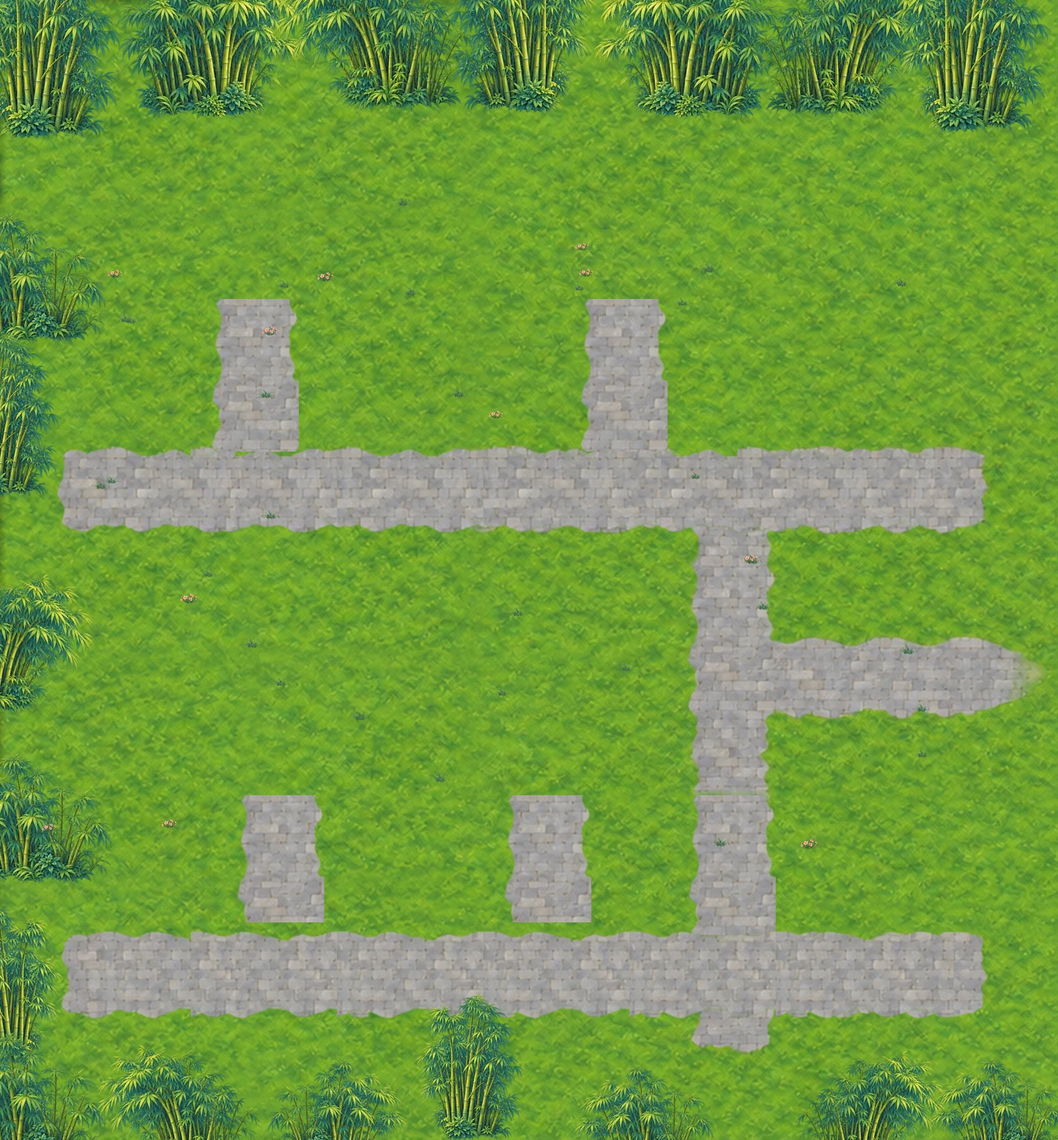
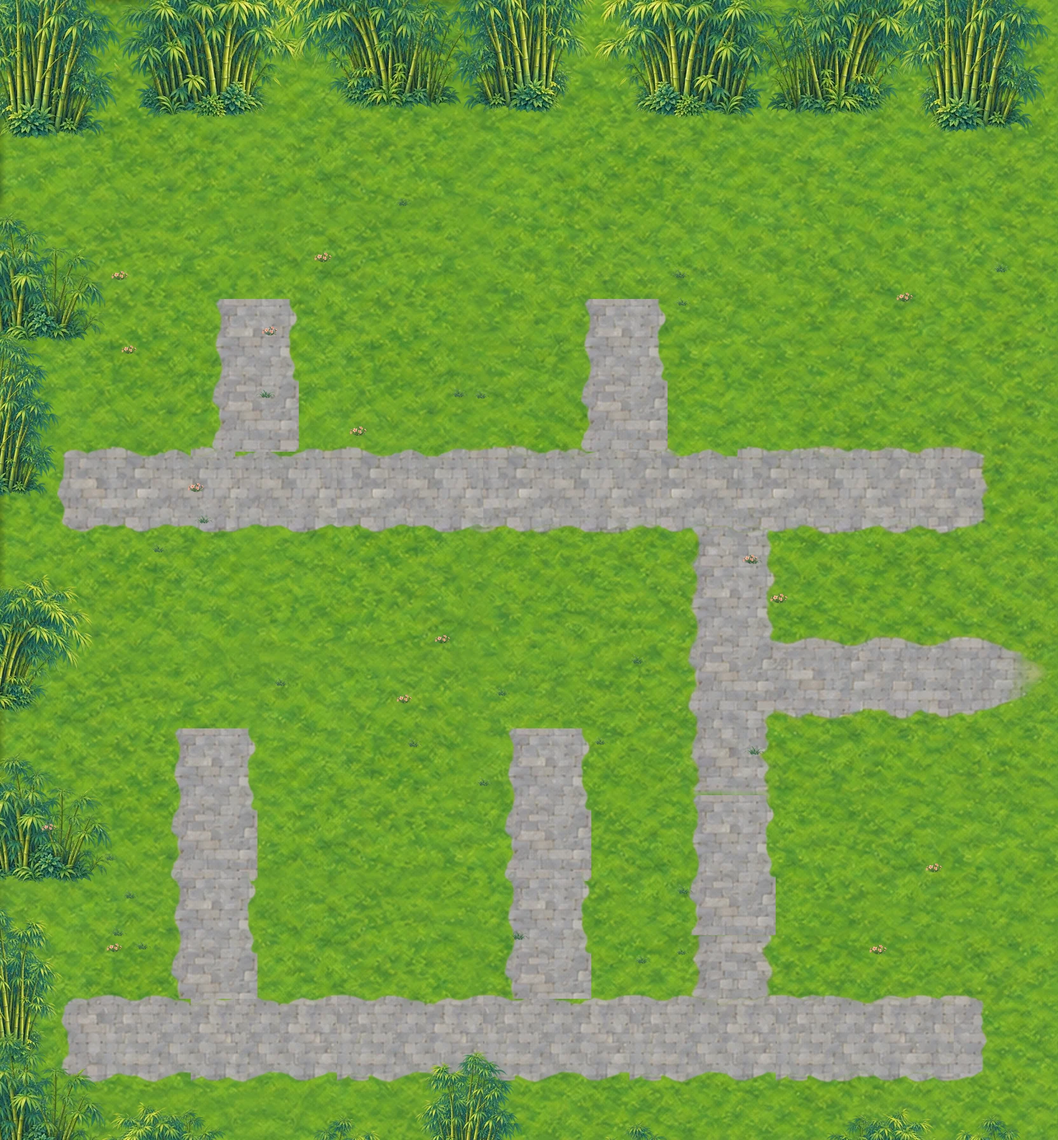
合并另一窗口：青竹西院 R136 室内（无缝墙、开合窗、多帧动画、图集）
Claude-Session: https://claude.ai/code/session_01MLmwgsq8MPeyfrtaz8BRE2

Changed region(s): [[0.0312, 0.625, 1.0, 1.0], [0.2812, 0.2188, 0.3125, 0.25], [0.0938, 0.2188, 0.125, 0.25]]

diff --git a/game/r136_west.js b/game/r136_west.js
@@ -1,103 +1,149 @@
-// ================= R136 · 青竹小院往西扩建（下人院）=================
-// 作者 11-07：「既然扩建了就好好扩建」→ 不是另一张图，青竹小院本身往西扩 1664px，一张图走过去。
-//   做法：小院原有坐标一个都不动（剧情、天鹏、练剑、钓鱼、宝箱都照旧），扩出来的那块落在 x < 0（-1664 ~ 0）；
-//   引擎里碰撞表 / 寻路 / 镜头 / 夜色支持「地图左边界为负」（T.x0 / T.c0），见 walkable、findPath、standMap 等处的 R136 注释。
-//   后排青禾、小桃各一间（往后靠，门前各一块花圃 + 小石板路），前排厨房和阿福一间并列，右边两块花圃；
-//   前院水井、柴垛、水缸、晾衣架、石桌竹椅、晒药架。小院西边竹丛留一个口子接过去。
-// 素材先用现成的拼（E2 客舍、苍月城房子顶厨房、R112 水井 / 柴垛 / 晾衣架、E2 花圃）；四间室内也是先拼的，等 Codex R136（无缝墙 + 开合窗 + 多帧）到了再换。
+// ================= R136 · 青竹小院往西扩建（下人院）+ 四间室内（Codex R136 墙窗 / 家具 / 多帧动画）=================
+// 作者 11-07：「既然扩建了就好好扩建」→ 青竹小院本身往西扩 1664px，一张图走过去。
+//   小院原有坐标一个都不动（剧情、天鹏、练剑、钓鱼、宝箱照旧），扩出来的那块落在 x < 0（-1664 ~ 0）；
+//   引擎里碰撞表 / 寻路 / 镜头 / 夜色 / 小地图支持「地图左边界为负」（T.x0 / T.c0，见各处 R136 注释）。
+// 西院：后排青禾、小桃（门前花圃 + 小石板路），前排厨房（Codex 厨房外观：烟囱炊烟、门帘、门灯多帧）和阿福并列（往后靠，前院更宽），
+//   前院 Codex 水井（打水多帧）、晾衣（被风吹）、石桌竹椅；右边两块随风摆的花圃；石灯都换成火光闪动的多帧。
+// 室内：Codex R136 整块无缝北墙（昼 / 夜），窗户白天开、夜里关，走到窗前点一下可以开关（8 帧开合）；
+//   开着窗时有窗格光斑、光束、竹影、浮尘；灶火、锅里蒸汽、蒸笼热气、风铃、窗帘、夜里壁灯都是多帧。夜里地板家具换压暗版。
 window.R136W_ON = true;
 (function () {
   if (typeof TMAPS === 'undefined' || !TMAPS.qingzhu_court || typeof buildTileMap !== 'function') return;
   const D = 'r136w/', COURT = 'qingzhu_court', OX = 1664, CS0 = 8;
   const P = (x, y) => [x / 64 - .5, y / 64 - .8];
-  const DATA = {"W":1664,"H":1792,"cs":8,"cols":208,"rows":224,"b":["1",8537,18,46,27,45,55,17,18,46,27,45,55,17,18,46,27,45,55,17,18,46,27,45,55,17,18,46,27,45,55,17,18,46,27,45,55,17,18,46,27,45,55,17,18,46,27,45,55,17,18,46,27,45,55,17,18,46,27,45,55,17,18,46,27,45,55,17,18,46,27,45,55,17,18,46,27,45,12,16,27,17,18,46,27,45,12,16,27,17,8,6,4,46,27,45,12,16,3,6,18,17,8,6,4,46,8,6,13,45,31,6,18,17,8,6,58,6,89,6,18,17,8,6,58,6,89,6,18,17,8,6,153,6,18,17,191,17,191,17,191,17,191,17,191,17,191,17,191,17,172,15,4,17,172,15,4,17,172,15,4,17,191,17,191,17,191,17,52,38,35,38,28,17,52,38,35,38,28,17,52,38,35,38,28,17,52,38,35,38,28,17,52,38,35,38,28,17,52,38,35,38,28,17,52,38,35,38,28,17,52,38,35,38,28,17,52,38,35,38,28,17,52,38,35,38,14,31,177,31,177,31,177,31,177,31,177,31,191,17,191,17,191,17,191,17,191,17,191,17,191,17,191,17,191,17,191,17,191,17,191,17,191,17,191,17,191,17,191,17,191,17,191,17,191,17,191,17,191,17,191,17,191,17,191,17,191,17,191,17,191,17,191,17,191,17,10,52,11,51,24,38,5,17,10,52,11,51,24,38,5,17,10,52,11,51,19,43,5,17,10,52,11,51,19,43,5,17,10,52,11,51,19,43,5,17,10,52,11,51,19,43,5,17,10,52,11,51,19,43,5,17,10,52,11,51,24,38,13,9,10,52,11,51,24,38,13,9,10,52,11,51,75,9,10,52,11,51,75,9,10,52,11,51,75,9,10,52,11,51,75,9,10,52,11,51,75,9,10,52,11,51,75,9,10,52,11,51,75,9,10,52,11,51,75,9,10,52,11,51,75,9,10,52,11,51,75,9,10,52,11,51,59,6,10,9,10,52,11,51,59,6,10,9,10,52,11,51,59,6,10,9,10,52,11,51,59,6,10,9,10,52,11,51,59,6,2,17,10,52,11,51,67,17,10,52,11,51,67,17,10,52,11,51,67,17,10,52,11,51,67,17,10,52,11,51,67,17,10,52,11,51,67,17,10,52,11,51,67,17,10,52,11,51,67,17,10,52,11,51,67,17,10,52,11,51,67,17,10,58,5,51,24,38,5,17,10,58,5,51,24,38,5,23,4,60,3,51,24,38,5,23,4,60,3,51,24,38,5,23,47,17,78,38,5,23,58,6,78,38,5,23,58,6,78,38,5,17,148,38,5,17,148,38,5,17,148,38,5,17,191,17,191,17,191,17,191,17,191,17,191,17,191,17,191,17,191,17,191,17,1,22,168,17,1,22,4,17,147,17,1,22,4,17,10,16,45,12,64,17,1,22,4,17,10,16,3,7,27,6,2,12,1,6,57,17,1,22,4,17,10,16,3,7,27,6,2,12,1,6,57,17,1,22,4,17,10,16,3,7,27,6,2,12,1,6,57,17,1,22,168,17,191,17,191,17,191,17,191,17,191,17,191,17,191,17,191,17,191,17,191,17,191,17,191,17,191,17,191,17,191,17,191,17,191,17,191,17,191,17,191,17,191,17,191,17,191,17,191,17,191,17,191,17,191,17,191,3752],"objs":[["h_qinghe","house_day",180,190,440,280,470],["h_xiaotao","house_day",760,190,440,280,470],["kitchen","kitchen",130,860,440,395,1255],["h_afu","house_day",640,975,440,280,1255],["garden_1","fl_narcissus",475,486,336,184,662],["garden_2","fl_peony",1055,486,336,184,662],["garden_3","fl_lily",1238,835,336,184,1011],["garden_4","fl_iris",1238,1110,336,184,1286],["rack","rack",75,1257,190,168,1425],["well","well",282,1295,146,123,1418],["firewood","firewood",500,1329,135,83,1412],["jar_w","jar",650,1343,64,72,1415],["chair_l","bamboo_chair",925,1342,60,76,1418],["tea_s","stone_table",985,1331,112,81,1412],["chair_r","bamboo_chair2",1090,1342,60,76,1418],["sacks","sacks",490,1130,133,120,1250],["cart","cart",255,1586,156,114,1700],["herb1","herb",1250,1627,136,73,1700],["wine","wine",1480,581,132,119,700],["jar_g","jar",640,398,64,72,470],["herb2","herb",1250,377,136,73,450],["herb3","herb",1440,487,136,73,560],["lamp_0","lamp",130,361,60,119,480],["lamp_1","lamp",1400,361,60,119,480],["lamp_2","lamp",575,1143,60,119,1262],["lamp_3","lamp",65,1143,60,119,1262],["lamp_4","lamp",1210,871,60,119,990],["lamp_5","lamp",1530,1011,60,119,1130]],"doors":[{"id":"qinghe","to":"qingzhu_room_qinghe","x":400,"y":490,"label":"青禾的房间"},{"id":"xiaotao","to":"qingzhu_room_xiaotao","x":980,"y":490,"label":"小桃的房间"},{"id":"afu","to":"qingzhu_room_afu","x":860,"y":1275,"label":"阿福的房间"},{"id":"kitchen","to":"qingzhu_kitchen","x":440,"y":1275,"label":"厨房"}],"rooms":{"room_afu":["1",3852,96,8,76,12,8,8,76,12,8,8,76,12,8,8,76,12,8,8,76,12,8,8,76,12,8,8,76,12,8,8,76,12,8,8,96,8,3,36,57,8,3,36,57,8,3,36,57,8,3,36,57,8,3,36,57,8,3,36,57,8,3,36,57,8,96,8,96,8,96,8,96,8,96,8,96,8,57,18,21,8,57,18,21,8,57,18,21,8,57,18,21,8,57,18,21,8,96,8,96,8,96,8,96,8,96,8,96,8,96,8,96,8,4,16,44,9,23,8,4,16,44,9,23,8,4,16,44,9,23,8,4,16,44,9,23,8,4,16,44,9,12,6,5,8,4,16,65,6,5,8,4,16,65,6,5,8,96,8,96,8,96,8,96,8,96,8,96,8,96,8,96,8,96,8,96,8,96,8,96,8,96,50,12,92,12,92,12,46],"room_qinghe":["1",3852,96,8,78,13,5,8,78,13,5,8,78,13,5,8,78,13,5,8,78,13,5,8,78,13,5,8,78,13,5,8,96,8,3,36,57,8,3,36,57,8,3,36,57,8,3,36,57,8,3,57,36,8,3,57,36,8,3,57,36,8,37,23,36,8,37,23,36,8,37,23,36,8,37,23,36,8,37,23,36,8,96,8,54,18,24,8,54,18,24,8,54,18,24,8,54,18,24,8,96,8,96,8,96,8,96,8,96,8,96,8,96,8,61,8,27,8,61,8,27,8,61,8,27,8,61,8,27,8,61,8,27,8,61,8,27,8,96,8,1,7,88,8,1,7,79,6,3,8,1,7,79,6,3,8,1,7,79,6,3,8,1,7,79,6,3,8,1,7,88,8,96,8,96,8,96,8,96,8,96,8,96,8,96,8,96,8,96,8,96,50,12,92,12,92,12,46],"room_xiaotao":["1",3852,96,8,7,12,77,8,7,12,77,8,7,12,77,8,7,12,77,8,7,12,77,8,7,12,77,8,7,12,77,8,96,8,57,36,3,8,57,36,3,8,57,36,3,8,57,36,3,8,57,36,3,8,57,36,3,8,57,36,3,8,96,8,96,8,96,8,96,8,96,8,96,8,96,8,96,8,9,18,69,8,9,18,69,8,9,18,69,8,9,18,69,8,9,18,69,8,96,8,96,8,96,8,96,8,96,8,96,8,96,8,14,9,73,8,14,9,73,8,14,9,73,8,14,9,73,8,14,9,66,15,89,15,3,6,80,15,3,6,80,15,3,6,80,15,3,6,80,15,96,8,96,8,96,8,96,8,96,8,96,8,96,8,96,8,96,8,96,50,12,92,12,92,12,46],"kitchen_in":["1",3852,71,33,71,33,71,33,3,26,42,33,3,26,42,33,3,26,12,25,5,33,3,26,12,25,5,33,3,26,12,25,5,33,3,26,4,33,5,33,3,26,4,33,5,33,33,12,26,33,71,33,96,8,96,8,96,8,96,8,96,8,96,8,96,8,19,8,69,8,19,8,69,8,19,8,69,8,96,8,96,8,96,8,96,8,96,8,37,27,32,8,37,27,32,8,37,27,32,8,37,27,32,8,37,27,32,8,37,27,32,8,37,27,32,8,96,8,96,8,96,8,96,8,3,19,74,8,3,19,74,8,3,19,74,8,3,19,60,11,3,8,3,19,60,11,3,8,82,11,3,8,82,11,3,8,82,11,3,8,96,8,96,8,96,8,96,8,96,8,96,8,96,8,96,8,96,8,96,50,12,92,12,92,12,46]}};
+  const DATA = {"W":1664,"H":1792,"cs":8,"cols":208,"rows":224,"b":["1",8537,18,46,27,45,55,17,18,46,27,45,55,17,18,46,27,45,55,17,18,46,27,45,55,17,18,46,27,45,55,17,18,46,27,45,55,17,18,46,27,45,55,17,18,46,27,45,55,17,18,46,27,45,55,17,18,46,27,45,55,17,18,46,27,45,55,17,18,46,27,45,55,17,18,46,27,45,12,16,27,17,18,46,27,45,12,16,27,17,18,46,27,45,12,16,27,17,18,46,8,6,13,45,55,17,72,6,113,17,9,4,59,6,90,4,19,17,9,4,155,4,19,17,191,17,191,17,191,17,191,17,191,17,191,17,191,17,172,15,4,17,172,15,4,17,172,15,4,17,191,17,191,17,191,17,52,38,35,38,28,17,52,38,35,38,28,17,52,38,35,38,28,17,52,38,35,38,28,17,52,38,35,38,28,17,52,38,35,38,28,17,52,38,35,38,28,17,52,38,35,38,28,17,52,38,35,38,28,17,52,38,35,38,14,31,177,31,177,31,177,31,177,31,177,31,191,17,191,17,191,17,191,17,191,17,191,17,191,17,191,17,191,17,191,17,191,17,191,17,191,17,191,17,191,17,191,17,191,17,191,17,191,17,5,55,13,51,67,17,5,55,13,51,67,17,5,55,13,51,67,17,5,55,13,51,67,17,5,55,13,51,67,17,5,55,13,51,67,17,5,55,13,51,67,17,5,55,13,51,67,17,5,55,13,51,67,17,5,55,13,51,67,17,5,55,13,51,67,17,5,55,13,51,23,39,5,17,5,55,13,51,23,39,5,17,5,55,13,51,23,39,5,17,5,55,13,51,23,39,5,17,5,55,13,51,16,4,3,39,5,17,5,55,13,51,16,4,47,17,5,55,13,51,75,9,5,55,13,51,75,9,5,55,13,51,75,9,5,55,13,51,75,9,5,55,13,51,75,9,5,55,13,51,75,9,5,55,13,51,75,9,5,55,13,51,75,9,5,55,13,51,75,9,5,55,13,51,75,9,5,55,13,51,75,9,5,55,13,51,75,9,5,55,13,51,75,9,5,55,13,51,75,9,5,55,13,51,75,9,5,55,13,51,60,4,11,9,5,55,13,51,60,4,3,17,5,55,13,51,67,17,6,53,132,17,65,4,122,17,65,4,122,17,191,17,191,17,191,17,191,17,191,17,191,17,191,17,147,39,5,17,147,39,5,17,147,39,5,17,147,39,5,17,147,39,5,17,191,17,191,17,191,17,191,17,191,17,191,17,191,17,191,17,191,17,191,17,191,17,191,17,191,17,191,17,191,17,3,22,166,17,3,22,90,12,64,17,3,22,82,6,2,12,1,6,57,17,3,22,82,6,2,12,1,6,57,17,3,22,18,36,28,6,2,12,1,6,57,17,3,22,18,36,112,17,3,22,18,36,112,17,191,17,191,17,191,17,191,17,191,17,147,15,8,19,2,17,147,15,8,19,2,17,147,15,8,19,2,17,147,15,8,19,2,17,170,19,2,17,191,17,191,17,191,17,191,17,191,17,191,17,191,17,191,17,191,17,191,17,191,17,191,17,191,17,191,17,191,17,191,17,191,17,191,17,191,17,191,17,191,17,191,17,191,17,191,17,191,17,191,17,191,17,191,17,191,1256],"objs":[["h_qinghe","house_day",180,190,440,280,470],["h_xiaotao","house_day",760,190,440,280,470],["kitchen","c_kitchen_exterior_day",95,850,480,300,1150,{"ni":"c_kitchen_exterior_night"}],["k_smoke","c_chimney_smoke_day",393,657,144,224,1151,{"an":"chimney_smoke_day","op":0.7,"nop":0.55,"ph":2,"nan":"chimney_smoke_night"}],["k_curtain","c_door_curtain",264,994,142,148,1152,{"an":"door_curtain","op":0.95}],["k_lan1","c_lantern_flicker",220,965,48,80,1153,{"an":"lantern_flicker"}],["k_lan2","c_lantern_flicker",402,965,48,80,1153,{"an":"lantern_flicker","ph":3}],["h_afu","house_day",640,870,440,280,1150],["garden_1","fl_narcissus",475,486,336,184,662],["garden_2","fl_peony",1055,486,336,184,662],["garden_3","c_flower_wind",1238,795,336,224,981,{"an":"flower_wind"}],["garden_4","c_flower_wind",1238,1070,336,224,1256,{"an":"flower_wind","ph":4}],["well","c_well_draw_water",60,1208,240,240,1432,{"an":"well_draw_water"}],["laundry","c_laundry_wind",400,1208,320,240,1430,{"an":"laundry_wind"}],["chair_l","bamboo_chair",925,1342,60,76,1418],["tea_s","stone_table",985,1331,112,81,1412],["chair_r","bamboo_chair2",1090,1342,60,76,1418],["cart","cart",1430,1396,156,114,1510],["herb1","herb",1240,1427,136,73,1500],["wine","wine",1480,581,132,119,700],["jar_g","jar",640,398,64,72,470],["herb2","herb",1250,377,136,73,450],["herb3","herb",1440,487,136,73,560],["lamp_0","c_stone_lamp_flicker",123,362,75,120,480,{"an":"stone_lamp_flicker","ph":0}],["lamp_1","c_stone_lamp_flicker",1393,362,75,120,480,{"an":"stone_lamp_flicker","ph":2}],["lamp_2","c_stone_lamp_flicker",571,1039,75,120,1157,{"an":"stone_lamp_flicker","ph":4}],["lamp_3","c_stone_lamp_flicker",1173,872,75,120,990,{"an":"stone_lamp_flicker","ph":6}],["lamp_4","c_stone_lamp_flicker",1523,1012,75,120,1130,{"an":"stone_lamp_flicker","ph":8}]],"doors":[{"id":"qinghe","to":"qingzhu_room_qinghe","x":400,"y":490,"label":"青禾的房间"},{"id":"xiaotao","to":"qingzhu_room_xiaotao","x":980,"y":490,"label":"小桃的房间"},{"id":"afu","to":"qingzhu_room_afu","x":860,"y":1170,"label":"阿福的房间"},{"id":"kitchen","to":"qingzhu_kitchen","x":335,"y":1170,"label":"厨房"}],"rooms":{"qinghe":{"floor":"floor_wood","objs":[{"id":"north_wall","x":0,"y":0,"w":832,"h":262,"z":10,"img":"wall_residential_day","ni":"wall_residential_night"},{"id":"window","x":92,"y":22,"w":280,"h":176,"z":12,"an":"window_open","fw":280,"fh":176,"n":8,"fps":10,"loop":false,"op":1,"ph":0,"sf":7,"ni":"window_closed_night","win":[232,290]},{"id":"bamboo_outside_window","x":148,"y":66,"w":168,"h":112,"z":13,"an":"bamboo_shadow","fw":256,"fh":256,"n":8,"fps":4,"loop":true,"op":0.22,"ph":0,"day":1,"clip":[135,60,194,105]},{"id":"window_curtains","x":82,"y":18,"w":300,"h":192,"z":16,"an":"window_curtain","fw":300,"fh":192,"n":8,"fps":5,"loop":true,"op":0.95,"ph":0,"day":1},{"id":"qinghe_plant","x":197,"y":140,"w":48,"h":65,"z":19,"img":"qinghe_plant","amb":1},{"id":"sun_patch","x":162,"y":255,"w":360,"h":260,"z":20,"img":"window_light_patch","op":0.3,"day":1,"mo":[3,1,8]},{"id":"bamboo_floor","x":187,"y":280,"w":256,"h":256,"z":21,"an":"bamboo_shadow","fw":256,"fh":256,"n":8,"fps":4,"loop":true,"op":0.25,"ph":0,"day":1},{"id":"warm_lantern","x":685,"y":64,"w":76,"h":128,"z":30,"an":"lantern_flicker","fw":76,"fh":128,"n":8,"fps":8,"loop":true,"op":1,"ph":0,"night":1},{"id":"qinghe_shelf","x":650,"y":248,"w":115,"h":136,"z":384,"img":"qinghe_shelf","amb":1,"col":[654,335,107,45]},{"id":"qinghe_bed","x":55,"y":310,"w":280,"h":122,"z":432,"img":"qinghe_bed","amb":1,"col":[59,388,272,40]},{"id":"qinghe_desk","x":500,"y":448,"w":188,"h":97,"z":545,"img":"qinghe_desk","amb":1,"col":[504,510,180,32]},{"id":"qinghe_sewing_basket","x":515,"y":431,"w":55,"h":46,"z":546,"img":"qinghe_sewing_basket","amb":1},{"id":"qinghe_embroidery_hoop","x":571,"y":432,"w":48,"h":46,"z":547,"img":"qinghe_embroidery_hoop","amb":1},{"id":"qinghe_books","x":629,"y":445,"w":45,"h":27,"z":548,"img":"qinghe_books","amb":1},{"id":"qinghe_stool","x":564,"y":557,"w":56,"h":52,"z":609,"img":"qinghe_stool","amb":1,"col":[568,590,48,17]},{"id":"qinghe_chest","x":70,"y":531,"w":126,"h":79,"z":610,"img":"qinghe_chest","amb":1,"col":[74,582,118,26]},{"id":"sun_beam","x":187,"y":120,"w":384,"h":384,"z":950,"img":"window_light_beam","op":0.1,"day":1,"mo":[1,1,10]},{"id":"dust_in_light","x":235,"y":240,"w":192,"h":192,"z":960,"an":"dust_motes","fw":192,"fh":192,"n":8,"fps":4,"loop":true,"op":0.16,"ph":0,"day":1}],"b":["1",3850,100,4,100,4,100,4,100,4,79,15,6,4,79,15,6,4,79,15,6,4,79,15,6,4,79,15,6,4,79,15,6,4,79,15,6,4,5,35,60,4,5,35,60,4,5,35,60,4,5,35,60,4,5,35,60,4,5,35,60,4,100,4,100,4,100,4,100,4,100,4,100,4,100,4,100,4,100,4,61,23,16,4,61,23,16,4,61,23,16,4,61,23,16,4,61,23,16,4,100,4,100,4,100,4,100,4,7,15,78,4,7,15,47,6,25,4,7,15,47,6,25,4,7,15,47,6,25,4,100,4,100,4,100,4,100,4,100,4,100,4,100,4,100,4,100,4,100,4,100,4,100,4,100,4,100,4,100,4,100,4,100,47,14,90,14,149],"trig":[360,734,112,34],"spawn":[416,698]},"xiaotao":{"floor":"floor_wood","objs":[{"id":"north_wall","x":0,"y":0,"w":832,"h":262,"z":10,"img":"wall_residential_day","ni":"wall_residential_night"},{"id":"window","x":92,"y":22,"w":280,"h":176,"z":12,"an":"window_open","fw":280,"fh":176,"n":8,"fps":10,"loop":false,"op":1,"ph":0,"sf":7,"ni":"window_closed_night","win":[232,290]},{"id":"bamboo_outside_window","x":148,"y":66,"w":168,"h":112,"z":13,"an":"bamboo_shadow","fw":256,"fh":256,"n":8,"fps":4,"loop":true,"op":0.22,"ph":0,"day":1,"clip":[135,60,194,105]},{"id":"xiaotao_dried_bouquet","x":549,"y":70,"w":65,"h":112,"z":18,"img":"xiaotao_dried_bouquet","amb":1},{"id":"xiaotao_daisies","x":201,"y":137,"w":50,"h":69,"z":19,"img":"xiaotao_daisies","amb":1},{"id":"window_chime","x":349,"y":64,"w":64,"h":112,"z":19,"an":"wind_chime","fw":64,"fh":112,"n":8,"fps":5,"loop":true,"op":1,"ph":0},{"id":"sun_patch","x":162,"y":255,"w":360,"h":260,"z":20,"img":"window_light_patch","op":0.3,"day":1,"mo":[3,1,8]},{"id":"bamboo_floor","x":187,"y":280,"w":256,"h":256,"z":21,"an":"bamboo_shadow","fw":256,"fh":256,"n":8,"fps":4,"loop":true,"op":0.25,"ph":0,"day":1},{"id":"warm_lantern","x":685,"y":64,"w":76,"h":128,"z":30,"an":"lantern_flicker","fw":76,"fh":128,"n":8,"fps":8,"loop":true,"op":1,"ph":0,"night":1},{"id":"xiaotao_cabinet","x":652,"y":248,"w":112,"h":128,"z":376,"img":"xiaotao_cabinet","amb":1,"col":[656,330,104,42]},{"id":"xiaotao_bed","x":55,"y":323,"w":280,"h":122,"z":445,"img":"xiaotao_bed","amb":1,"col":[59,401,272,40]},{"id":"xiaotao_tall_flowers","x":728,"y":458,"w":65,"h":110,"z":568,"img":"xiaotao_tall_flowers","amb":1,"col":[732,528,57,36]},{"id":"xiaotao_mirror_table","x":528,"y":421,"w":150,"h":155,"z":576,"img":"xiaotao_mirror_table","amb":1,"col":[532,520,142,51]},{"id":"xiaotao_flower_pot","x":80,"y":532,"w":62,"h":63,"z":595,"img":"xiaotao_flower_pot","amb":1,"col":[84,572,54,21]},{"id":"xiaotao_flower_basket","x":151,"y":584,"w":74,"h":52,"z":636,"img":"xiaotao_flower_basket","amb":1,"col":[155,617,66,17]},{"id":"xiaotao_stool","x":570,"y":592,"w":60,"h":46,"z":638,"img":"xiaotao_stool","amb":1,"col":[574,621,52,15]},{"id":"sun_beam","x":187,"y":120,"w":384,"h":384,"z":950,"img":"window_light_beam","op":0.1,"day":1,"mo":[1,1,10]},{"id":"dust_in_light","x":235,"y":240,"w":192,"h":192,"z":960,"an":"dust_motes","fw":192,"fh":192,"n":8,"fps":4,"loop":true,"op":0.16,"ph":0,"day":1}],"b":["1",3850,100,4,100,4,100,4,100,4,80,13,7,4,80,13,7,4,80,13,7,4,80,13,7,4,80,13,7,4,80,13,7,4,100,4,100,4,100,4,5,35,60,4,5,35,60,4,5,35,60,4,5,35,60,4,5,35,60,4,5,35,60,4,100,4,100,4,100,4,100,4,100,4,100,4,100,4,100,4,100,4,64,19,17,4,64,19,6,8,3,4,64,19,6,8,3,4,64,19,6,8,3,4,64,19,6,8,3,4,64,19,6,8,3,4,8,8,48,19,17,4,8,8,84,4,8,8,84,4,8,8,84,4,100,4,100,4,17,9,43,8,23,4,17,9,43,8,23,4,17,9,43,8,23,4,100,4,100,4,100,4,100,4,100,4,100,4,100,4,100,4,100,4,100,4,100,4,100,4,100,47,14,90,14,149],"trig":[360,734,112,34],"spawn":[416,698]},"afu":{"floor":"floor_wood","objs":[{"id":"north_wall","x":0,"y":0,"w":832,"h":262,"z":10,"img":"wall_residential_day","ni":"wall_residential_night"},{"id":"window","x":92,"y":22,"w":280,"h":176,"z":12,"an":"window_open","fw":280,"fh":176,"n":8,"fps":10,"loop":false,"op":1,"ph":0,"sf":7,"ni":"window_closed_night","win":[232,290]},{"id":"bamboo_outside_window","x":148,"y":66,"w":168,"h":112,"z":13,"an":"bamboo_shadow","fw":256,"fh":256,"n":8,"fps":4,"loop":true,"op":0.22,"ph":0,"day":1,"clip":[135,60,194,105]},{"id":"afu_straw_hat","x":552,"y":80,"w":72,"h":99,"z":18,"img":"afu_straw_hat","amb":1},{"id":"afu_work_clothes","x":673,"y":81,"w":100,"h":94,"z":18,"img":"afu_work_clothes","amb":1},{"id":"sun_patch","x":162,"y":255,"w":360,"h":260,"z":20,"img":"window_light_patch","op":0.3,"day":1,"mo":[3,1,8]},{"id":"bamboo_floor","x":187,"y":280,"w":256,"h":256,"z":21,"an":"bamboo_shadow","fw":256,"fh":256,"n":8,"fps":4,"loop":true,"op":0.25,"ph":0,"day":1},{"id":"warm_lantern","x":685,"y":64,"w":76,"h":128,"z":30,"an":"lantern_flicker","fw":76,"fh":128,"n":8,"fps":8,"loop":true,"op":1,"ph":0,"night":1},{"id":"afu_clothes_chest","x":626,"y":273,"w":140,"h":84,"z":357,"img":"afu_clothes_chest","amb":1,"col":[630,327,132,28]},{"id":"afu_bed","x":55,"y":311,"w":280,"h":122,"z":433,"img":"afu_bed","amb":1,"col":[59,389,272,40]},{"id":"afu_straw_sandals","x":78,"y":440,"w":43,"h":42,"z":482,"img":"afu_straw_sandals","amb":1},{"id":"afu_stool","x":603,"y":477,"w":62,"h":45,"z":522,"img":"afu_stool","amb":1,"col":[607,506,54,15]},{"id":"afu_carrying_pole","x":655,"y":484,"w":58,"h":150,"z":634,"img":"afu_carrying_pole","amb":1,"col":[659,580,50,50]},{"id":"afu_washstand","x":77,"y":549,"w":115,"h":99,"z":648,"img":"afu_washstand","amb":1,"col":[81,612,107,33]},{"id":"afu_water_buckets","x":696,"y":580,"w":105,"h":81,"z":661,"img":"afu_water_buckets","amb":1,"col":[700,632,97,27]},{"id":"sun_beam","x":187,"y":120,"w":384,"h":384,"z":950,"img":"window_light_beam","op":0.1,"day":1,"mo":[1,1,10]},{"id":"dust_in_light","x":235,"y":240,"w":192,"h":192,"z":960,"an":"dust_motes","fw":192,"fh":192,"n":8,"fps":4,"loop":true,"op":0.16,"ph":0,"day":1}],"b":["1",3850,100,4,100,4,100,4,76,18,6,4,76,18,6,4,76,18,6,4,76,18,6,4,76,18,6,4,100,4,100,4,100,4,5,35,60,4,5,35,60,4,5,35,60,4,5,35,60,4,5,35,60,4,5,35,60,4,100,4,100,4,100,4,100,4,100,4,100,4,100,4,100,4,100,4,73,8,19,4,73,8,19,4,73,8,19,4,100,4,100,4,100,4,100,4,100,4,100,4,80,7,13,4,80,7,13,4,80,7,13,4,80,7,13,4,8,14,58,7,13,4,8,14,58,7,13,4,8,14,58,7,13,4,8,14,63,13,2,4,8,14,63,13,2,4,85,13,2,4,85,13,2,4,100,4,100,4,100,4,100,4,100,4,100,4,100,4,100,4,100,4,100,47,14,90,14,149],"trig":[360,734,112,34],"spawn":[416,698]},"kitchen":{"floor":"floor_stone","objs":[{"id":"north_wall","x":0,"y":0,"w":832,"h":262,"z":10,"img":"wall_kitchen_day","ni":"wall_kitchen_night"},{"id":"window","x":156,"y":22,"w":280,"h":176,"z":12,"an":"window_open","fw":280,"fh":176,"n":8,"fps":10,"loop":false,"op":1,"ph":0,"sf":7,"ni":"window_closed_night","win":[296,290]},{"id":"bamboo_outside_window","x":212,"y":66,"w":168,"h":112,"z":13,"an":"bamboo_shadow","fw":256,"fh":256,"n":8,"fps":4,"loop":true,"op":0.22,"ph":0,"day":1,"clip":[199,60,194,105]},{"id":"kitchen_cured_pork","x":565,"y":101,"w":103,"h":96,"z":18,"img":"kitchen_cured_pork","amb":1},{"id":"kitchen_chili","x":706,"y":104,"w":38,"h":102,"z":18,"img":"kitchen_chili","amb":1},{"id":"kitchen_garlic","x":761,"y":115,"w":35,"h":91,"z":18,"img":"kitchen_garlic","amb":1},{"id":"sun_patch","x":226,"y":255,"w":360,"h":260,"z":20,"img":"window_light_patch","op":0.3,"day":1,"mo":[3,1,8]},{"id":"bamboo_floor","x":251,"y":280,"w":256,"h":256,"z":21,"an":"bamboo_shadow","fw":256,"fh":256,"n":8,"fps":4,"loop":true,"op":0.25,"ph":0,"day":1},{"id":"warm_lantern","x":685,"y":64,"w":76,"h":128,"z":30,"an":"lantern_flicker","fw":76,"fh":128,"n":8,"fps":8,"loop":true,"op":1,"ph":0,"night":1},{"id":"kitchen_water_jar","x":48,"y":270,"w":100,"h":118,"z":388,"img":"kitchen_water_jar","amb":1,"col":[52,346,92,39]},{"id":"kitchen_double_stove","x":510,"y":238,"w":250,"h":173,"z":411,"img":"kitchen_double_stove","amb":1,"col":[514,349,242,57]},{"id":"fire_left","x":544,"y":337,"w":64,"h":64,"z":418,"an":"stove_fire","fw":64,"fh":64,"n":8,"fps":10,"loop":true,"op":0.95,"ph":0},{"id":"fire_right","x":651,"y":337,"w":64,"h":64,"z":419,"an":"stove_fire","fw":64,"fh":64,"n":8,"fps":10,"loop":true,"op":0.92,"ph":3},{"id":"wok_left_steam","x":522,"y":132,"w":128,"h":160,"z":430,"an":"pot_steam","fw":128,"fh":160,"n":8,"fps":6,"loop":true,"op":0.55,"ph":2},{"id":"wok_right_steam","x":627,"y":132,"w":128,"h":160,"z":431,"an":"pot_steam","fw":128,"fh":160,"n":8,"fps":6,"loop":true,"op":0.5,"ph":4},{"id":"kitchen_chopping_table","x":164,"y":445,"w":190,"h":126,"z":571,"img":"kitchen_chopping_table","amb":1,"col":[168,526,182,42]},{"id":"kitchen_steamer","x":173,"y":391,"w":83,"h":91,"z":574,"img":"kitchen_steamer","amb":1},{"id":"bamboo_steamer_steam","x":150,"y":253,"w":128,"h":160,"z":575,"an":"steamer_steam","fw":128,"fh":160,"n":8,"fps":6,"loop":true,"op":0.6,"ph":2},{"id":"kitchen_stool","x":360,"y":536,"w":62,"h":57,"z":593,"img":"kitchen_stool","amb":1,"col":[364,572,54,19]},{"id":"kitchen_firewood","x":503,"y":536,"w":114,"h":78,"z":614,"img":"kitchen_firewood","amb":1,"col":[507,586,106,26]},{"id":"kitchen_rice_jar","x":61,"y":510,"w":93,"h":105,"z":615,"img":"kitchen_rice_jar","amb":1,"col":[65,577,85,35]},{"id":"kitchen_cupboard","x":654,"y":454,"w":138,"h":166,"z":620,"img":"kitchen_cupboard","amb":1,"col":[658,560,130,55]},{"id":"kitchen_vegetable_basket","x":254,"y":585,"w":85,"h":58,"z":643,"img":"kitchen_vegetable_basket","amb":1,"col":[258,622,77,19]},{"id":"sun_beam","x":251,"y":120,"w":384,"h":384,"z":950,"img":"window_light_beam","op":0.1,"day":1,"mo":[1,1,10]},{"id":"dust_in_light","x":299,"y":240,"w":192,"h":192,"z":960,"an":"dust_motes","fw":192,"fh":192,"n":8,"fps":4,"loop":true,"op":0.16,"ph":0,"day":1}],"b":["1",3850,100,4,100,4,100,4,100,4,100,4,100,4,4,12,46,31,7,4,4,12,46,31,7,4,4,12,46,31,7,4,4,12,46,31,7,4,4,12,46,31,7,4,4,12,46,31,7,4,62,31,7,4,62,31,7,4,100,4,100,4,100,4,100,4,100,4,100,4,100,4,100,4,100,4,100,4,100,4,100,4,100,4,100,4,19,23,58,4,19,23,58,4,19,23,58,4,19,23,58,4,19,23,58,4,19,23,38,17,3,4,43,8,29,17,3,4,6,11,26,8,29,17,3,4,6,11,26,8,10,14,5,17,3,4,6,11,44,14,5,17,3,4,6,11,44,14,5,17,3,4,6,11,44,14,5,17,3,4,30,10,60,4,30,10,60,4,30,10,60,4,30,10,60,4,100,4,100,4,100,4,100,4,100,4,100,4,100,4,100,4,100,4,100,4,100,4,100,47,14,90,14,149],"trig":[360,734,112,34],"spawn":[416,698]}},"anim":{"window_open":{"fw":280,"fh":176,"n":8,"fps":10,"loop":false},"stove_fire":{"fw":64,"fh":64,"n":8,"fps":10,"loop":true},"pot_steam":{"fw":128,"fh":160,"n":8,"fps":6,"loop":true},"steamer_steam":{"fw":128,"fh":160,"n":8,"fps":6,"loop":true},"chimney_smoke_day":{"fw":144,"fh":224,"n":8,"fps":5,"loop":true},"chimney_smoke_night":{"fw":144,"fh":224,"n":8,"fps":5,"loop":true},"wind_chime":{"fw":64,"fh":112,"n":8,"fps":5,"loop":true},"laundry_wind":{"fw":320,"fh":240,"n":8,"fps":5,"loop":true},"flower_wind":{"fw":336,"fh":224,"n":8,"fps":5,"loop":true},"well_draw_water":{"fw":240,"fh":240,"n":8,"fps":5,"loop":true},"window_curtain":{"fw":300,"fh":192,"n":8,"fps":5,"loop":true},"door_curtain":{"fw":144,"fh":192,"n":8,"fps":5,"loop":true},"lantern_flicker":{"fw":76,"fh":128,"n":8,"fps":8,"loop":true},"stone_lamp_flicker":{"fw":100,"fh":160,"n":8,"fps":8,"loop":true},"bamboo_shadow":{"fw":256,"fh":256,"n":8,"fps":4,"loop":true},"dust_motes":{"fw":192,"fh":192,"n":8,"fps":4,"loop":true}}};
+  const AN = DATA.anim;
   const unrle = a => { let s = '', c = a[0]; for (let i = 1; i < a.length; i++) { s += c.repeat(a[i]); c = c === '0' ? '1' : '0'; } return s; };
   const night = () => { try { return window.TOD ? TOD() === 'night' : false; } catch (e) { return false; } };
-  // ---- 素材：进青竹一带才载 ----
-  const KEYS = ['ground', 'house_day', 'house_night', ...new Set(DATA.objs.map(o => o[1])), 'room_qinghe', 'room_xiaotao', 'room_afu', 'kitchen_in'];
+  const ROOMS = { qinghe: 'qingzhu_room_qinghe', xiaotao: 'qingzhu_room_xiaotao', afu: 'qingzhu_room_afu', kitchen: 'qingzhu_kitchen' };
+  const RK = {}; for (const k in ROOMS) RK[ROOMS[k]] = k;
+  // ---- 素材 ----
+  const KEYS = new Set(['ground', 'house_night', 'c_kitchen_exterior_night', 'c_chimney_smoke_night']);
+  for (const o of DATA.objs) KEYS.add(o[1]);
+  for (const k in DATA.rooms) { const R = DATA.rooms[k]; KEYS.add('c_' + R.floor); KEYS.add('c_' + R.floor + '_n');
+    for (const d of R.objs) { if (d.an) KEYS.add('c_' + d.an); if (d.img) { KEYS.add('c_' + d.img); if (d.amb) KEYS.add('c_' + d.img + '_n'); } if (d.ni) KEYS.add('c_' + d.ni); } }
+  // 小件、动画、地板墙面打成四张图集（发布文件数有上限），载好后切成单张挂到 IMG
+  const AT = {"c_window_light_beam":[0,0,0,384,384],"c_kitchen_exterior_night":[0,386,0,480,300],"c_kitchen_exterior_day":[0,868,0,480,300],"c_window_light_patch":[0,1350,0,360,260],"c_window_closed_night":[0,1712,0,280,176],"c_kitchen_double_stove":[0,0,386,250,173],"c_kitchen_cupboard":[0,252,386,138,166],"c_xiaotao_mirror_table":[0,392,386,150,155],"c_afu_carrying_pole":[0,544,386,58,150],"c_qinghe_shelf":[0,604,386,115,136],"c_xiaotao_cabinet":[0,721,386,112,128],"c_kitchen_chopping_table":[0,835,386,190,126],"c_afu_bed":[0,1027,386,280,122],"c_qinghe_bed":[0,1309,386,280,122],"c_xiaotao_bed":[0,1591,386,280,122],"c_kitchen_water_jar":[0,1873,386,100,118],"c_xiaotao_dried_bouquet":[0,1975,386,65,112],"c_xiaotao_tall_flowers":[0,0,561,65,110],"c_kitchen_rice_jar":[0,67,561,93,105],"c_kitchen_chili":[0,162,561,38,102],"c_afu_straw_hat":[0,202,561,72,99],"c_afu_washstand":[0,276,561,115,99],"c_qinghe_desk":[0,393,561,188,97],"c_kitchen_cured_pork":[0,583,561,103,96],"c_afu_work_clothes":[0,688,561,100,94],"c_kitchen_garlic":[0,790,561,35,91],"c_kitchen_steamer":[0,827,561,83,91],"c_afu_clothes_chest":[0,912,561,140,84],"c_afu_water_buckets":[0,1054,561,105,81],"c_qinghe_chest":[0,1161,561,126,79],"c_kitchen_firewood":[0,1289,561,114,78],"c_xiaotao_daisies":[0,1405,561,50,69],"c_qinghe_plant":[0,1457,561,48,65],"c_xiaotao_flower_pot":[0,1507,561,62,63],"c_kitchen_vegetable_basket":[0,1571,561,85,58],"c_kitchen_stool":[0,1658,561,62,57],"c_qinghe_stool":[0,1722,561,56,52],"c_xiaotao_flower_basket":[0,1780,561,74,52],"c_xiaotao_stool":[0,1856,561,60,46],"c_qinghe_embroidery_hoop":[0,1918,561,48,46],"c_qinghe_sewing_basket":[0,1968,561,55,46],"c_afu_stool":[0,0,673,62,45],"c_afu_straw_sandals":[0,64,673,43,42],"c_qinghe_books":[0,109,673,45,27],"c_kitchen_double_stove_n":[1,0,0,250,173],"c_kitchen_cupboard_n":[1,252,0,138,166],"c_xiaotao_mirror_table_n":[1,392,0,150,155],"c_afu_carrying_pole_n":[1,544,0,58,150],"c_qinghe_shelf_n":[1,604,0,115,136],"c_xiaotao_cabinet_n":[1,721,0,112,128],"c_kitchen_chopping_table_n":[1,835,0,190,126],"c_qinghe_bed_n":[1,1027,0,280,122],"c_afu_bed_n":[1,1309,0,280,122],"c_xiaotao_bed_n":[1,1591,0,280,122],"c_kitchen_water_jar_n":[1,1873,0,100,118],"c_xiaotao_dried_bouquet_n":[1,1975,0,65,112],"c_xiaotao_tall_flowers_n":[1,0,175,65,110],"c_kitchen_rice_jar_n":[1,67,175,93,105],"c_kitchen_chili_n":[1,162,175,38,102],"c_afu_washstand_n":[1,202,175,115,99],"c_afu_straw_hat_n":[1,319,175,72,99],"c_qinghe_desk_n":[1,393,175,188,97],"c_kitchen_cured_pork_n":[1,583,175,103,96],"c_afu_work_clothes_n":[1,688,175,100,94],"c_kitchen_steamer_n":[1,790,175,83,91],"c_kitchen_garlic_n":[1,875,175,35,91],"c_afu_clothes_chest_n":[1,912,175,140,84],"c_afu_water_buckets_n":[1,1054,175,105,81],"c_qinghe_chest_n":[1,1161,175,126,79],"c_kitchen_firewood_n":[1,1289,175,114,78],"c_xiaotao_daisies_n":[1,1405,175,50,69],"c_qinghe_plant_n":[1,1457,175,48,65],"c_xiaotao_flower_pot_n":[1,1507,175,62,63],"c_kitchen_vegetable_basket_n":[1,1571,175,85,58],"c_kitchen_stool_n":[1,1658,175,62,57],"c_qinghe_stool_n":[1,1722,175,56,52],"c_xiaotao_flower_basket_n":[1,1780,175,74,52],"c_qinghe_embroidery_hoop_n":[1,1856,175,48,46],"c_xiaotao_stool_n":[1,1906,175,60,46],"c_qinghe_sewing_basket_n":[1,1968,175,55,46],"c_afu_stool_n":[1,0,287,62,45],"c_afu_straw_sandals_n":[1,64,287,43,42],"c_qinghe_books_n":[1,109,287,45,27],"c_window_open":[2,0,0,2240,176],"c_stove_fire":[2,0,178,512,64],"c_pot_steam":[2,514,178,1024,160],"c_steamer_steam":[2,1540,178,1024,160],"c_chimney_smoke_day":[2,0,340,1152,224],"c_chimney_smoke_night":[2,1154,340,1152,224],"c_wind_chime":[2,0,566,512,112],"c_laundry_wind":[2,0,680,2560,240],"c_flower_wind":[2,0,922,2688,224],"c_well_draw_water":[2,0,1148,1920,240],"c_window_curtain":[2,0,1390,2400,192],"c_door_curtain":[2,0,1584,1152,192],"c_lantern_flicker":[2,1154,1584,608,128],"c_stone_lamp_flicker":[2,1764,1584,800,160],"c_bamboo_shadow":[2,0,1778,2048,256],"c_dust_motes":[2,0,2036,1536,192],"c_floor_wood":[3,0,0,832,768],"c_floor_wood_n":[3,834,0,832,768],"c_floor_stone":[3,0,770,832,768],"c_floor_stone_n":[3,834,770,832,768],"c_wall_residential_day":[3,0,1540,832,262],"c_wall_residential_night":[3,834,1540,832,262],"c_wall_kitchen_day":[3,0,1804,832,262],"c_wall_kitchen_night":[3,834,1804,832,262]};
+  const ATL = ['atlas_day', 'atlas_night', 'atlas_anim', 'atlas_big'], ATQ = {};
+  const atlas = i => { if (ATQ[i]) return; ATQ[i] = 1; const im = new Image(); im.onload = () => { for (const k in AT) { const [a, x, y, w, h] = AT[k]; if (a !== i) continue; const c = document.createElement('canvas'); c.width = w; c.height = h; c.getContext('2d').drawImage(im, x, y, w, h, 0, 0, w, h); IMG['r136w_' + k] = c; } }; im.src = D + ATL[i] + '.webp'; };
   const REQ = {};
-  const get = k => { if (REQ[k]) return; REQ[k] = 1; const im = new Image(); im.onload = () => { IMG['r136w_' + k] = im; }; im.src = D + k + '.webp'; };
+  const get = k => { if (AT[k]) return atlas(AT[k][0]); if (REQ[k]) return; REQ[k] = 1; const im = new Image(); im.onload = () => { IMG['r136w_' + k] = im; }; im.src = D + k + '.webp'; };
   const loadAll = () => KEYS.forEach(get);
   setTimeout(loadAll, 20000);
-  const YB = unrle(DATA.b), YC = DATA.cols, YR = DATA.rows;   // 扩建区碰撞（208 列 × 224 行，8px）
+  const I = k => IMG['r136w_' + k];
+  // ---- 通用画法：静图 / 昼夜换图 / 多帧动画 / 透明度 / 正弦平移 / 裁切 ----
+  const tS = () => performance.now() / 1000;
+  const WIN = {};   // 各房间窗户状态 { open, t0, dir }
+  function winFrame(room) { const w = WIN[room] || (WIN[room] = { open: true, t0: -9, dir: 1 }); const k = Math.min(7, Math.floor((tS() - w.t0) * 10)); return w.dir > 0 ? (w.t0 < 0 ? 7 : k) : 7 - k; }
+  const winOpen = room => !night() && (!WIN[room] || WIN[room].open);
+  function drawItem(ob, x, y, w, h, room) {
+    const e = ob.r || ob, nt = night(), t = tS();
+    if (e.day && (nt || (room && !winOpen(room) && e.lit))) return;
+    if (e.night === 1 && !nt) return;
+    let im, sx = 0, sy = 0, fw, fh;
+    const an = nt && e.nan ? e.nan : e.an;
+    if (e.win && nt && e.ni) { im = I('c_' + e.ni); }
+    else if (an) { const A = AN[an]; im = I('c_' + an); if (!im || !A) return; fw = A.fw; fh = A.fh;
+      const f = e.win ? winFrame(room) : (A.loop === false && e.sf != null ? e.sf : Math.floor(t * A.fps + (e.ph || 0)) % A.n); sx = f * fw; }
+    else { const nm = s => (s.indexOf('c_') === 0 ? s : 'c_' + s), base = nm(e.img || ob.ik); im = (nt && e.ni && I(nm(e.ni))) || (nt && e.amb && I(base + '_n')) || I(base); }
+    if (!im) return;
+    ctx.save(); const op = nt && e.nop != null ? e.nop : (e.op != null ? e.op : 1); if (op !== 1) ctx.globalAlpha *= op;
+    if (e.mo) { x += e.mo[0] * Math.sin(t * 2 * Math.PI / e.mo[2]); y += e.mo[1] * Math.sin(t * 2 * Math.PI / e.mo[2] + 1); }
+    if (nt && e.nan) y -= 16;
+    if (e.clip) { ctx.beginPath(); ctx.rect(e.clip[0], e.clip[1], e.clip[2], e.clip[3]); ctx.clip(); }
+    if (fw) ctx.drawImage(im, sx, sy, fw, fh, x, y, w, h); else ctx.drawImage(im, x, y, w, h);
+    ctx.restore();
+  }
+  // ---- 西院碰撞（208 列 × 224 行，8px）----
+  const YB = unrle(DATA.b), YC = DATA.cols, YR = DATA.rows;
   // 接缝口子同时写进小院原始碰撞数据（别处会按 CXB2 原数据重刷碰撞表，只改 T 会被刷回去）
   try { const QB = CXB2[COURT]; if (QB && QB.cs === CS0) { const bl = QB.blocked.split(''); for (let r = Math.floor(984 / CS0); r <= Math.floor(1088 / CS0); r++) for (let c = 0; c < 6; c++) bl[r * QB.cols + c] = '0'; QB.blocked = bl.join('');
       // 挡在口子上的那丛竹子（route_bamboo_soft，-80,919）从原始数据里拿掉：别处会按贴图轮廓再补碰撞
       const keep = ob => !(/route_bamboo_soft/.test(ob.img_id || ob.img || ob.id || '') && ob.x < 0 && Math.abs(ob.y - 919) < 30);
       QB.objs = (QB.objs || []).filter(keep); const BK = TMAPS[COURT].baked; if (BK) { BK.objs = (BK.objs || []).filter(keep); BK.blocked = QB.blocked; } } } catch (e) {}
-  // 接缝处地面过渡：扩建区最右一条（镜像）渐隐着压在小院地面最左边，免得一条硬边
+  // 接缝处地面过渡：扩建区最右一条（镜像）渐隐着压在小院地面最左边
   let SEAM = null;
-  const seam = () => { if (SEAM || !IMG.r136w_ground) return SEAM; const g = IMG.r136w_ground, w = 120, c = document.createElement('canvas'); c.width = w; c.height = g.height; const x = c.getContext('2d');
+  const seam = () => { if (SEAM || !I('ground')) return SEAM; const g = I('ground'), w = 120, c = document.createElement('canvas'); c.width = w; c.height = g.height; const x = c.getContext('2d');
     x.save(); x.translate(w, 0); x.scale(-1, 1); x.drawImage(g, g.width - w, 0, w, g.height, 0, 0, w, g.height); x.restore();
     x.globalCompositeOperation = 'destination-in'; const lg = x.createLinearGradient(0, 0, w, 0); lg.addColorStop(0, 'rgba(0,0,0,1)'); lg.addColorStop(1, 'rgba(0,0,0,0)'); x.fillStyle = lg; x.fillRect(0, 0, w, g.height);
     return (SEAM = c); };
-  const ROOMS = { qinghe: 'qingzhu_room_qinghe', xiaotao: 'qingzhu_room_xiaotao', afu: 'qingzhu_room_afu', kitchen: 'qingzhu_kitchen' };
+  // ---- 室内地图 ----
+  const ROOM_T = { qinghe: '西院 · 青禾的房间', xiaotao: '西院 · 小桃的房间', afu: '西院 · 阿福的房间', kitchen: '西院 · 厨房' };
+  const doorOf = id => DATA.doors.find(d => d.id === id);
+  for (const k in ROOMS) {
+    const R = DATA.rooms[k], d = doorOf(k), tr = R.trig;
+    const objs = R.objs.filter(o => o.z >= 30 && o.z < 900 || o.z < 20).map(o => ({ bk: true, id: 'r136r_' + o.id, img: 'r136w_c_' + (o.img || o.an), x: o.x, y: o.y, w: o.w, h: o.h, sy: o.z, flat: false, flip: false, r: Object.assign({ lit: /sun|bamboo|dust/.test(o.id) }, o) }));
+    TMAPS[ROOMS[k]] = { title: ROOM_T[k], indoor: true,
+      baked: { ground: 'r136w_c_' + R.floor, w: 832, h: 768, cs: 8, cols: 104, rows: 96, blocked: unrle(R.b), objs },
+      start: P(R.spawn[0], R.spawn[1]), chests: [], npcs: [],
+      exits: [{ x: Math.floor(tr[0] / 8), y: Math.floor(tr[1] / 8), w: Math.ceil(tr[2] / 8), h: Math.ceil(tr[3] / 8), to: COURT, label: '出门 · 青竹小院', at: P(d.x - OX, d.y + 46), face: 'down' }] };
+    // 窗户：走到窗前点一下开 / 关
+    const wo = R.objs.find(o => o.win);
+    if (wo) { const [c, r] = P(wo.win[0], wo.win[1] + 20);
+      TMAPS[ROOMS[k]].npcs.push({ key: 'none', c, r, name: '窗户', hidden: true, h: 110, talk: async () => {
+        if (night()) { if (typeof narrate === 'function') await narrate('夜里风凉，窗就关着吧。'); return; }
+        const w = WIN[k] || (WIN[k] = { open: true, t0: -9, dir: 1 }); w.open = !w.open; w.dir = w.open ? 1 : -1; w.t0 = tS(); try { playSnd('ui_click', .4); } catch (e) {} } });
+    }
+  }
   // ---- 小院地图构建时把西边接上 ----
   buildTileMap = (o => function (def) {
     const T = o.apply(this, arguments);
     try {
       if (def !== TMAPS[COURT] || !T || !T.baked || T.cs !== CS0 || T.rows !== YR) return T;
-      // 碰撞表：每行前面接 208 列
       for (let r = 0; r < T.rows; r++) { const row = new Array(YC); for (let c = 0; c < YC; c++) row[c] = YB.charCodeAt(r * YC + c) === 49 ? 1 : 0; T.block[r] = row.concat(T.block[r]); }
-      T.c0 = -YC; T.x0 = -OX; T.cols += YC;
-      // 接缝：小院西边竹丛开一个口（y 984~1088，正对扩建区中间那条石板路）
+      T.c0 = -YC; T.x0 = -OX; T.cols += YC; T.xg = 'r136w_ground';
       for (let r = Math.floor(984 / CS0); r <= Math.floor(1088 / CS0); r++) for (let c = 0; c < 6; c++) T.block[r][c - T.c0] = 0;
-      // 正好挡在口子上的那丛竹子拿掉
       T.objs = T.objs.filter(ob => !(/route_bamboo_soft/.test(ob.img_id || ob.img || ob.id || '') && ob.x < 0 && Math.abs(ob.y - 919) < 30));
-      for (const [id, img, x, y, w, h, sy] of DATA.objs) T.objs.push({ bk: true, id: 'r136w_' + id, img: 'r136w_' + img, x: x - OX, y, w, h, sy, flat: false, flip: false });
-      for (const d of DATA.doors) T.doors.push({ rect: [d.x - OX, d.y, 30, 16], upOnly: true, to: ROOMS[d.id], at: P(416, 700), face: 'up', label: d.label });
+      for (const [id, img, x, y, w, h, sy, e] of DATA.objs) T.objs.push({ bk: true, id: 'r136w_' + id, img: 'r136w_' + img, ik: img, x: x - OX, y, w, h, sy, flat: false, flip: false, r: e ? Object.assign({ img }, e) : null });
+      for (const d of DATA.doors) T.doors.push({ rect: [d.x - OX, d.y, 30, 16], upOnly: true, to: ROOMS[d.id], at: P(DATA.rooms[d.id].spawn[0], DATA.rooms[d.id].spawn[1]), face: 'up', label: d.label });
       T._stand = null;
+      if (window.MM_CLEAR) MM_CLEAR(COURT);
     } catch (e) { console.warn('r136w', e); }
     return T;
   })(buildTileMap);
-  // 扩建区地面：画在小院地面左边
+  // ---- 地面：扩建区画在小院左边；接缝过渡；室内夜里换压暗地板 ----
   drawGroundVis = (o => function (g, cam) {
-    try { const T = world.map && world.map.T; if (T && T.x0 && world.mapName === COURT && IMG.r136w_ground) ctx.drawImage(IMG.r136w_ground, T.x0, 0); } catch (e) {}
-    const r = o.apply(this, arguments);
-    try { const T = world.map && world.map.T; if (T && T.x0 && world.mapName === COURT && cam.x < 200 && seam()) ctx.drawImage(SEAM, 0, 0); } catch (e) {}
+    const m = world.mapName, T = world.map && world.map.T;
+    try { if (T && T.x0 && m === COURT && I('ground')) ctx.drawImage(I('ground'), T.x0, 0); } catch (e) {}
+    if (RK[m] && night()) { const n = I('c_' + DATA.rooms[RK[m]].floor + '_n'); if (n) g = n; }
+    const r = o.call(this, g, cam);
+    try { if (T && T.x0 && m === COURT && cam.x < 200 && seam()) ctx.drawImage(SEAM, 0, 0); } catch (e) {}
     return r;
   })(drawGroundVis);
+  // ---- 物件：带 r（Codex 动画 / 昼夜）的自己画 ----
+  if (typeof drawBaked === 'function') drawBaked = (o => function (ob, now) {
+    if (ob && ob.img === 'r136w_house_day' && night() && I('house_night')) { ob.img = 'r136w_house_night'; const r = o.apply(this, arguments); ob.img = 'r136w_house_day'; return r; }
+    if (ob && ob.r) { try { drawItem(ob, ob.x, ob.y, ob.w, ob.h, RK[world.mapName]); } catch (e) {} return; }
+    return o.apply(this, arguments);
+  })(drawBaked);
+  // 室内地面层（光斑、竹影）在家具下面；光束、浮尘在最上面
+  const layer = (lo, hi) => { const m = world.mapName, k = RK[m]; if (!k) return; for (const d of DATA.rooms[k].objs) if (d.z >= lo && d.z < hi) drawItem({ r: Object.assign({ lit: /sun|bamboo|dust/.test(d.id) }, d) }, d.x, d.y, d.w, d.h, k); };
+  tileAmbientLow = (o => function (T, cam, now) { if (typeof o === 'function') o.apply(this, arguments); try { layer(20, 30); } catch (e) {} })(typeof tileAmbientLow === 'function' ? tileAmbientLow : null);
+  if (typeof tileAmbientHigh === 'function') tileAmbientHigh = (o => function (T, cam, now) {
+    o.apply(this, arguments);
+    try { layer(900, 9999); } catch (e) {}
+    try { const m = world.mapName; if (!night() || m !== COURT) return;   // 夜里西院窗口和石灯的暖光
+      ctx.save(); ctx.globalCompositeOperation = 'lighter'; const fl = .9 + Math.sin(now * 6) * .05;
+      const glow = (x, y, r, a) => { const g = ctx.createRadialGradient(x, y, 2, x, y, r); g.addColorStop(0, `rgba(255,190,110,${a * fl})`); g.addColorStop(1, 'rgba(255,150,70,0)'); ctx.fillStyle = g; ctx.fillRect(x - r, y - r, r * 2, r * 2); };
+      for (const o2 of T.objs) { if (!o2.img || o2.img.indexOf('r136w_') || o2.x > cam.x + W / VZ() + 100 || o2.x + o2.w < cam.x - 100) continue;
+        if (/house_day/.test(o2.img)) { glow(o2.x + 95, o2.y + 140, 50, .26); glow(o2.x + 345, o2.y + 140, 50, .26); glow(o2.x + 220, o2.y + 200, 70, .2); }
+        if (/stone_lamp/.test(o2.img)) glow(o2.x + o2.w / 2, o2.y + o2.h * .3, 70, .35);
+        if (/lantern/.test(o2.img)) glow(o2.x + o2.w / 2, o2.y + o2.h * .5, 46, .35); }
+      ctx.restore(); } catch (e) {}
+  })(tileAmbientHigh);
   // ---- 扩建区里的可调查点 ----
   const court = TMAPS[COURT]; court.npcs = court.npcs || [];
   const spot = (map, x, y, name, text) => { const [c, r] = P(x, y); TMAPS[map].npcs.push({ key: 'none', c, r, name, hidden: true, h: 110, talk: [].concat(text) }); };
-  spot(COURT, 355 - OX, 1440, '水井', ['井水清凉，打上来的水能照见人影。阿福每天一早从这儿挑水。']);
-  spot(COURT, 570 - OX, 1435, '柴垛', ['劈好的柴码得整整齐齐，够厨房烧好几天。']);
+  spot(COURT, 180 - OX, 1455, '水井', ['井水清凉，打上来的水能照见人影。阿福每天一早从这儿挑水。']);
+  spot(COURT, 560 - OX, 1452, '晾衣架', ['竹竿上晾着几件洗好的衣裳，风一吹轻轻地晃。']);
   spot(COURT, 1040 - OX, 1440, '石桌竹椅', ['下人们忙完活，常在这儿歇脚、说闲话。']);
-  spot(COURT, 170 - OX, 1450, '晾衣架', ['竹竿上晾着几件洗好的衣裳，风一吹轻轻地晃。']);
   spot(COURT, 1320 - OX, 480, '晒药架', ['竹匾里晒着菊花、陈皮和几味草药，是小桃收的。']);
-  // ---- 四间室内（832×768，门在南墙正中）----
-  const ROOM_T = { qinghe: '西院 · 青禾的房间', xiaotao: '西院 · 小桃的房间', afu: '西院 · 阿福的房间', kitchen: '西院 · 厨房' };
-  const GROUND = { qinghe: 'room_qinghe', xiaotao: 'room_xiaotao', afu: 'room_afu', kitchen: 'kitchen_in' };
-  for (const d of DATA.doors) {
-    TMAPS[ROOMS[d.id]] = { title: ROOM_T[d.id], indoor: true,
-      baked: { ground: 'r136w_' + GROUND[d.id], w: 832, h: 768, cs: 8, cols: 104, rows: 96, blocked: unrle(DATA.rooms[GROUND[d.id]]), objs: [] },
-      start: P(416, 700), chests: [], npcs: [],
-      exits: [{ x: Math.floor(372 / 8), y: Math.floor(746 / 8), w: 11, h: 3, to: COURT, label: '出门 · 青竹小院', at: P(d.x - OX, d.y + 46), face: 'down' }] };
-  }
-  spot(ROOMS.qinghe, 520, 520, '书桌', ['桌上摊着绣了一半的帕子，针脚细密。旁边压着两本翻旧了的书。']);
-  spot(ROOMS.xiaotao, 180, 520, '小桌', ['桌上插着两瓶刚摘的花，还有一面小铜镜。']);
-  spot(ROOMS.afu, 560, 500, '木桌', ['桌上放着算盘和一本记账的小册子——阿福在学认字。']);
-  spot(ROOMS.kitchen, 160, 420, '灶台', ['灶膛里还有余火，锅里温着热水。']);
-  spot(ROOMS.kitchen, 430, 560, '菜案', ['案板上码着切好的菜，刀摆得端端正正。']);
-  // ---- 昼夜：夜里房子换夜景版、窗口和石灯有暖光；室内压暗 ----
-  if (typeof drawBaked === 'function') drawBaked = (o => function (ob, now) {
-    if (ob && (ob.img === 'r136w_house_day' || ob.img === 'r136w_house_night')) ob.img = night() && IMG.r136w_house_night ? 'r136w_house_night' : 'r136w_house_day';
-    return o.apply(this, arguments);
-  })(drawBaked);
-  const isRoom = m => Object.values(ROOMS).includes(m);
-  if (typeof tileAmbientHigh === 'function') tileAmbientHigh = (o => function (T, cam, now) {
-    o.apply(this, arguments);
-    try { const m = world.mapName; if (!night() || !(m === COURT || isRoom(m))) return;
-      ctx.save(); const fl = .9 + Math.sin(now * 6) * .05;
-      const glow = (x, y, r, a) => { const g = ctx.createRadialGradient(x, y, 2, x, y, r); g.addColorStop(0, `rgba(255,190,110,${a * fl})`); g.addColorStop(1, 'rgba(255,150,70,0)'); ctx.fillStyle = g; ctx.fillRect(x - r, y - r, r * 2, r * 2); };
-      if (isRoom(m)) { ctx.globalCompositeOperation = 'multiply'; ctx.fillStyle = 'rgb(185,180,205)'; ctx.fillRect(cam.x - 20, cam.y - 20, W / VZ() + 40, H / VZ() + 40); ctx.globalCompositeOperation = 'lighter'; glow(416, 330, 260, .14); }
-      else { ctx.globalCompositeOperation = 'lighter';
-        for (const o2 of T.objs) { if (!o2.img || o2.img.indexOf('r136w_') || o2.x > cam.x + W / VZ() + 100) continue;
-          if (/house|kitchen/.test(o2.img)) { const k = o2.w / 440; glow(o2.x + 95 * k, o2.y + 140 * k, 50, .26); glow(o2.x + 345 * k, o2.y + 140 * k, 50, .26); glow(o2.x + 220 * k, o2.y + 200 * k, 70, .2); }
-          if (/lamp/.test(o2.img)) glow(o2.x + 30, o2.y + 40, 70, .35); } }
-      ctx.restore(); } catch (e) {}
-  })(tileAmbientHigh);
+  spot(ROOMS.qinghe, 590, 560, '书桌', ['桌上摊着绣了一半的帕子，针脚细密。旁边压着两本翻旧了的书。']);
+  spot(ROOMS.xiaotao, 600, 590, '梳妆台', ['铜镜擦得锃亮，旁边一盒胭脂、一把木梳，还有几朵刚摘的花。']);
+  spot(ROOMS.afu, 640, 540, '扁担水桶', ['两只水桶刷得干干净净，扁担磨得发亮——阿福每天要挑好几趟水。']);
+  spot(ROOMS.kitchen, 630, 430, '灶台', ['两口锅都烧着，一锅温水一锅汤，灶膛里的火噼啪作响。']);
+  spot(ROOMS.kitchen, 260, 590, '菜案', ['案板上码着切好的菜，蒸笼里冒着热气。']);
   tileSetMap = (o => function (name) { if (/^qingzhu_/.test(name || '')) loadAll(); return o.apply(this, arguments); })(tileSetMap);
-  window.R136W = { ROOMS, loadAll, OX };
+  window.R136W = { ROOMS, loadAll, OX, WIN };
 })();
 
